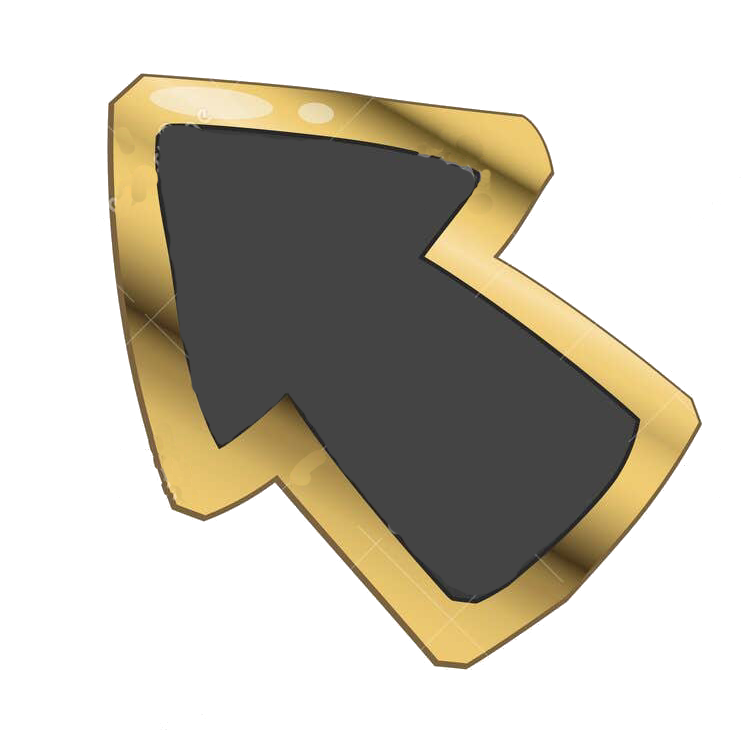
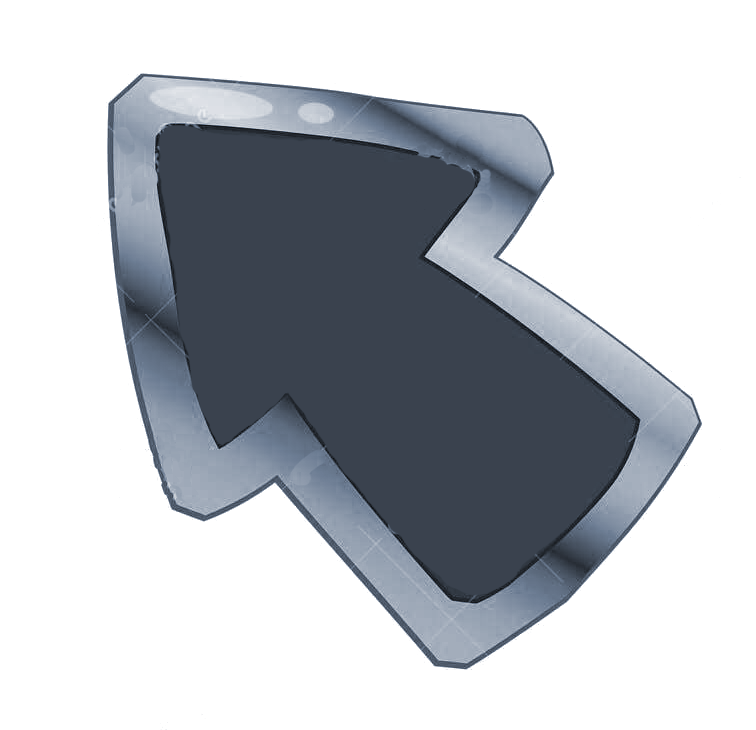
Stopwatch bug/ curseur in menu

Changed region(s): [[0.1217, 0.0904, 0.9431, 0.9342]]

diff --git a/Game.py b/Game.py
@@ -52,7 +52,7 @@ def startGame(_taille_ecran) :
     menu_bg = pygame.image.load("Buttons\Fond_menu.png")
     
     menu.main_menu(screen,_taille_ecran,play_button,menu_bg)
-
+    
     Game(_taille_ecran,player_1,clock,FPS,running,current_R,Size_Tile)
     
 # Create a font object
@@ -99,6 +99,9 @@ def Game(_taille_ecran,player_1,clock,FPS,_running,_current_R,_Size_Tile) :
     level_up_sound_effect = mixer.Sound('Sound/Level_Up_Sound_Effect.mp3')
     lighting_sound=mixer.Sound('Sound/Lightning.mp3')
     
+    time_0=pygame.time.get_ticks()
+    print(time_0/1000)
+
     while _running:
         
         #gets the time in seconds since the init
@@ -249,48 +252,48 @@ def Game(_taille_ecran,player_1,clock,FPS,_running,_current_R,_Size_Tile) :
 
         if _current_R.roomId == 1:
                 # Render the time as text
-            lv1_time_text = font.render(f"Time : {time/1000} ", True, (255, 255, 255))
+            lv1_time_text = font.render(f"Time : {(time-time_0)/1000} ", True, (255, 255, 255))
 
             # Blit the rendered text onto the screen
             screen.blit(lv1_time_text, (pixelSize[0] - 140, 10))
 
         elif _current_R.roomId == 2 :
-            lvl2_time_text = font.render(f"Time : {(time - time_1)/1000} ", True, (255, 255, 255))
+            lvl2_time_text = font.render(f"Time : {(time-time_0 - time_1)/1000} ", True, (255, 255, 255))
             screen.blit(lvl2_time_text, (pixelSize[0] - 140, 10))
 
         elif _current_R.roomId == 3:
-            lvl3_time_text = font.render(f"Time : {(time -time_1-time_2)/1000} ", True, (255, 255, 255))
+            lvl3_time_text = font.render(f"Time : {(time -time_0-time_1-time_2)/1000} ", True, (255, 255, 255))
             screen.blit(lvl3_time_text, (pixelSize[0] - 140, 10))
 
         elif _current_R.roomId == 4:
-            lvl4_time_text = font.render(f"Time : {(time-time_1-time_2-time_3)/1000} ", True, (255, 255, 255))
+            lvl4_time_text = font.render(f"Time : {(time-time_0-time_1-time_2-time_3)/1000} ", True, (255, 255, 255))
             screen.blit(lvl4_time_text, (pixelSize[0] - 140, 10))
 
         elif _current_R.roomId == 5:
-            lvl5_time_text = font.render(f"Time : {(time-time_1-time_2-time_3-time_4)/1000} ", True, (255, 255, 255))
+            lvl5_time_text = font.render(f"Time : {(time-time_0-time_1-time_2-time_3-time_4)/1000} ", True, (255, 255, 255))
             screen.blit(lvl5_time_text, (pixelSize[0] - 140, 10))
 
 
         if _current_R.map[player_1.position[0]][player_1.position[1]].type == 4 :
             #afiichage du temps requit pour finir une salle
             if _current_R.roomId == 1:
-                time_1=time
+                time_1=time-time_0
                 lvl1_accomplished_time = font.render(f"Time to complete level 1: {time_1/1000} ", True, (0, 255, 0))
                 screen.blit(lvl1_accomplished_time,((pixelSize[0] - 330, 50)))
             if _current_R.roomId == 2:
-                time_2=time-time_1
+                time_2=time-time_0-time_1
                 lvl2_accomplished_time = font.render(f"Time to complete level 2: {time_2/1000} ", True, (0, 255, 0))
                 screen.blit(lvl2_accomplished_time,((pixelSize[0] - 330, 50)))
             if _current_R.roomId == 3:
-                time_3=time-time_1-time_2
+                time_3=time-time_0-time_1-time_2
                 lvl3_accomplished_time = font.render(f"Time to complete level 3: {time_3/1000} ", True, (0, 255, 0))
                 screen.blit(lvl3_accomplished_time,((pixelSize[0] - 330, 50)))
             if _current_R.roomId == 4:
-                time_4=time-time_1-time_2-time_3
+                time_4=time-time_0-time_1-time_2-time_3
                 lvl4_accomplished_time = font.render(f"Time to complete level 4: {time_4/1000} ", True, (0, 255, 0))
                 screen.blit(lvl4_accomplished_time,((pixelSize[0] - 330, 50)))
             if _current_R.roomId == 5:
-                time_5=time-time_1-time_2-time_3-time_4
+                time_5=time-time_0-time_1-time_2-time_3-time_4
                 lvl5_accomplished_time = font.render(f"Time to complete level 5: {time_5/1000} ", True, (0, 255, 0))
                 screen.blit(lvl5_accomplished_time,((pixelSize[0] - 330, 50)))
 

diff --git a/menu.py b/menu.py
@@ -1,6 +1,13 @@
 import pygame
 def main_menu(_screen,_taille_ecran,_textu_play_button,_textu_menu_bg) :
 
+    #Curseur adequat
+    curseur_surface= pygame.image.load("Buttons/Curseur.png").convert_alpha()
+    curseur_surface= pygame.transform.scale(curseur_surface, (30,30))
+    #afficher le curseur adequat
+    curseur=pygame.cursors.Cursor((0,0),curseur_surface)
+    
+
     play_button_size= []
     play_button_size.append(_taille_ecran[0]/3)
     play_button_size.append(_taille_ecran[1]/8)
@@ -14,7 +21,7 @@ def main_menu(_screen,_taille_ecran,_textu_play_button,_textu_menu_bg) :
      #affiche le menu principal
     _screen.blit(_textu_menu_bg,(0,0))
     _screen.blit(_textu_play_button,( play_button_pos[0]  ,play_button_pos[1] ))
-    
+    pygame.mouse.set_cursor(curseur)
     
     checker = 1 
     while checker == 1 :
@@ -28,6 +35,7 @@ def main_menu(_screen,_taille_ecran,_textu_play_button,_textu_menu_bg) :
                 if mouse_pos[0] > (_taille_ecran[0]/2) and mouse_pos[0] < (_taille_ecran[0]/2 + play_button_size[0]) :
                     if mouse_pos[1] > (_taille_ecran[1]*2/5) and mouse_pos[1] < (_taille_ecran[1]*2/5 +  play_button_size[1]) :
                         checker = 0
+                        
                 #rajouter d'éventuels autres boutons
             if event.type == pygame.QUIT:
                 pygame.quit()
